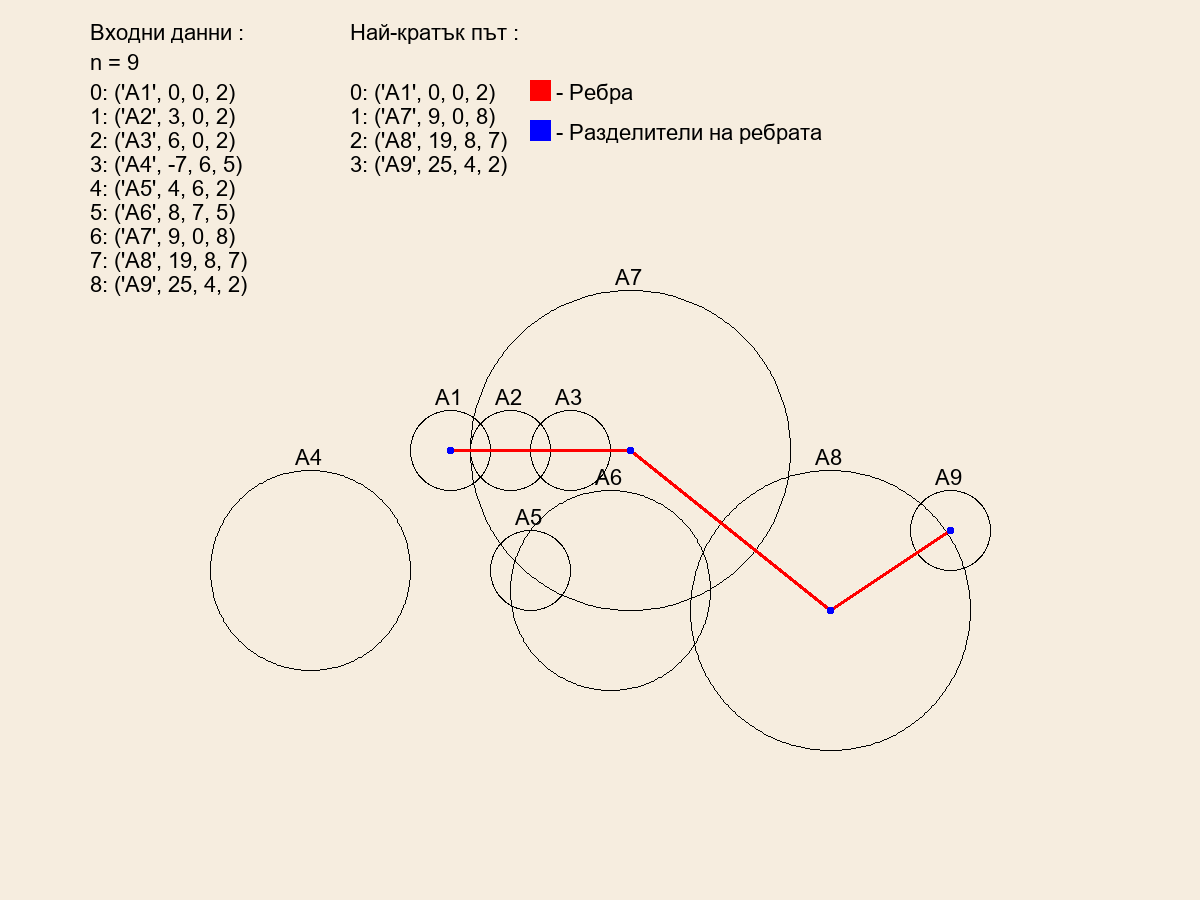
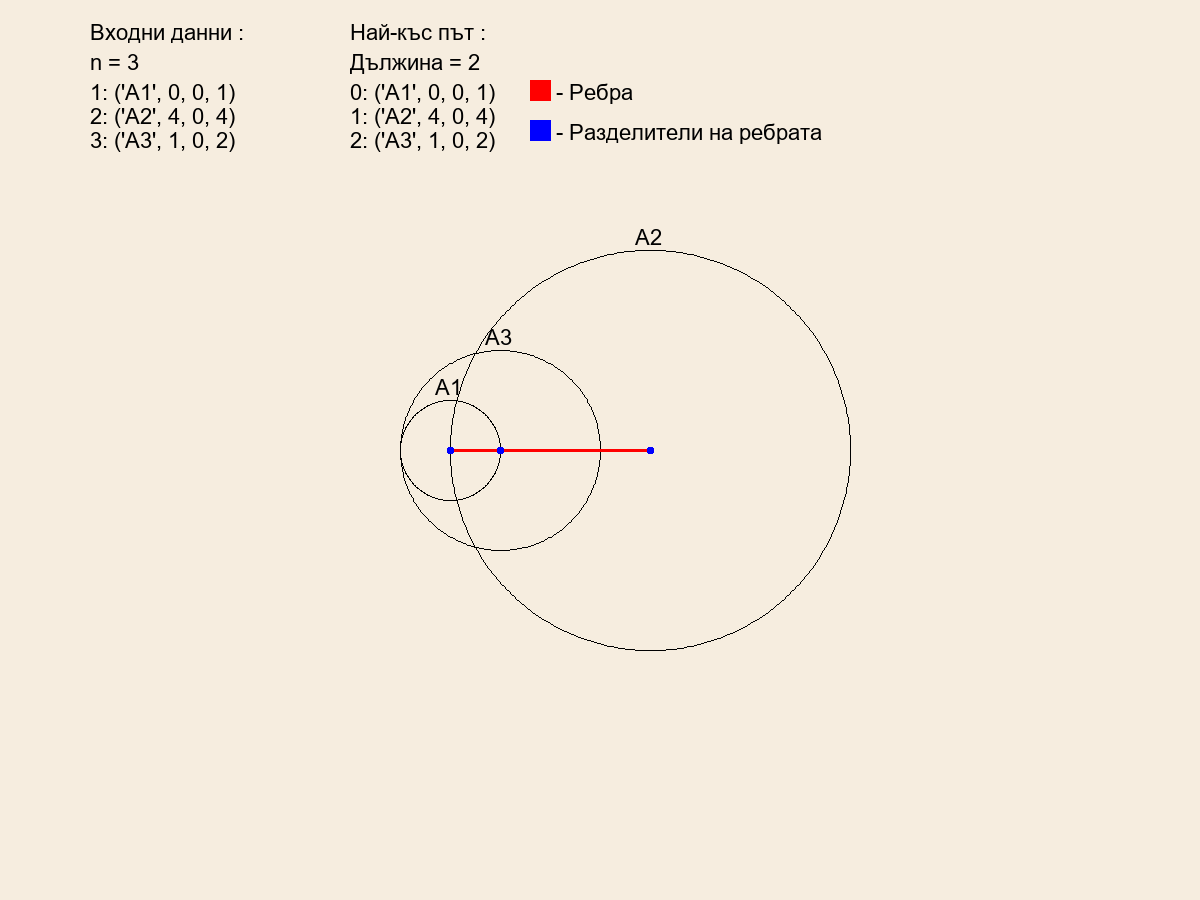
Final visualisation for the round task

diff --git a/tasks/fast/round.py b/tasks/fast/round.py
@@ -104,11 +104,14 @@ def drawImage():
                  "n = {:d} ".format(n),
                  fill=(0, 0, 0, 0), font=textfont2)
 	drawing.text((90, 80),
-                 '\n'.join('{}: {}'.format(*k) for k in enumerate(rounds)),
+                 '\n'.join('{}: {}'.format(*k) for k in enumerate((rounds),1)),
                  fill=(0, 0, 0, 0), font=textfont2)
 	drawing.text((350, 20),
-                 "Най-кратък път :",
+                 "Най-къс път :",
                  fill=(0, 0, 0, 0), font=textfont2)
+	drawing.text((350, 50),
+                 "Дължина = {:d}".format(result),
+                 fill=0, font=textfont2)
 	drawing.text((350, 80),
                  '\n'.join('{}: {}'.format(*k) for k in enumerate(finalpath)),
                  fill=(0, 0, 0, 0), font=textfont2)
